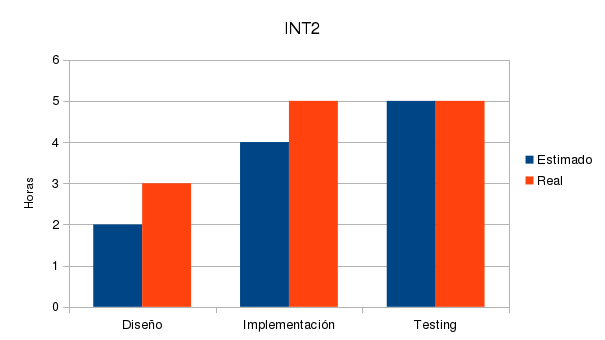
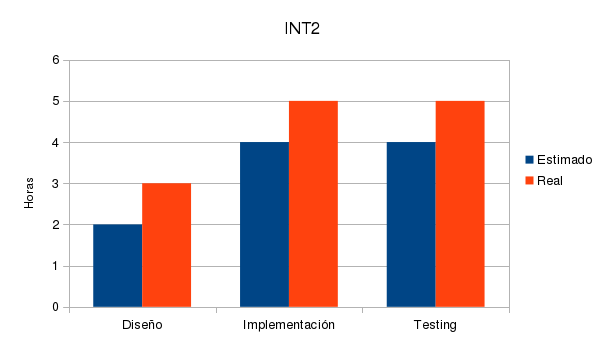
corregido un error en las horas

Changed region(s): [[0.6248, 0.2941, 0.7438, 0.4412]]

diff --git a/informe/tex/retrospectiva.tex b/informe/tex/retrospectiva.tex
@@ -19,11 +19,10 @@
       este inconveniente, a la hora de ponernos a trabajar notamos r\'apidamente
       el problema, y logramos distribuirnos las tareas de forma eficiente.
     \subsubsection{Horas estimadas de implementaci\'on}
-      Luego de haber ajustado las tareas del \sprintback{} logramos una buena
-      estimaci\'on de las horas de dise\~no, pues habiamos experimentado cuanto
+      Luego de haber ajustado las tareas del \sprintback{} logramos una
+      estimaci\'on aceptable de las horas de dise\~no, pues habiamos experimentado cuanto
       nos pod\'ia tomar. Por otro lado las horas de implementaci\'on quedaron un tanto
-      ajustadas, si bien la diferencia con las horas reales de implementaci\'on no
-      fue tan grande.
+      ajustadas. La diferencia total fue de $19$ horas.
 
     \subsection{Pr\'oxima iteraci\'on -- No implementado}
       \subsubsection{Decisiones dependientes del \textit{input} del usuario}
